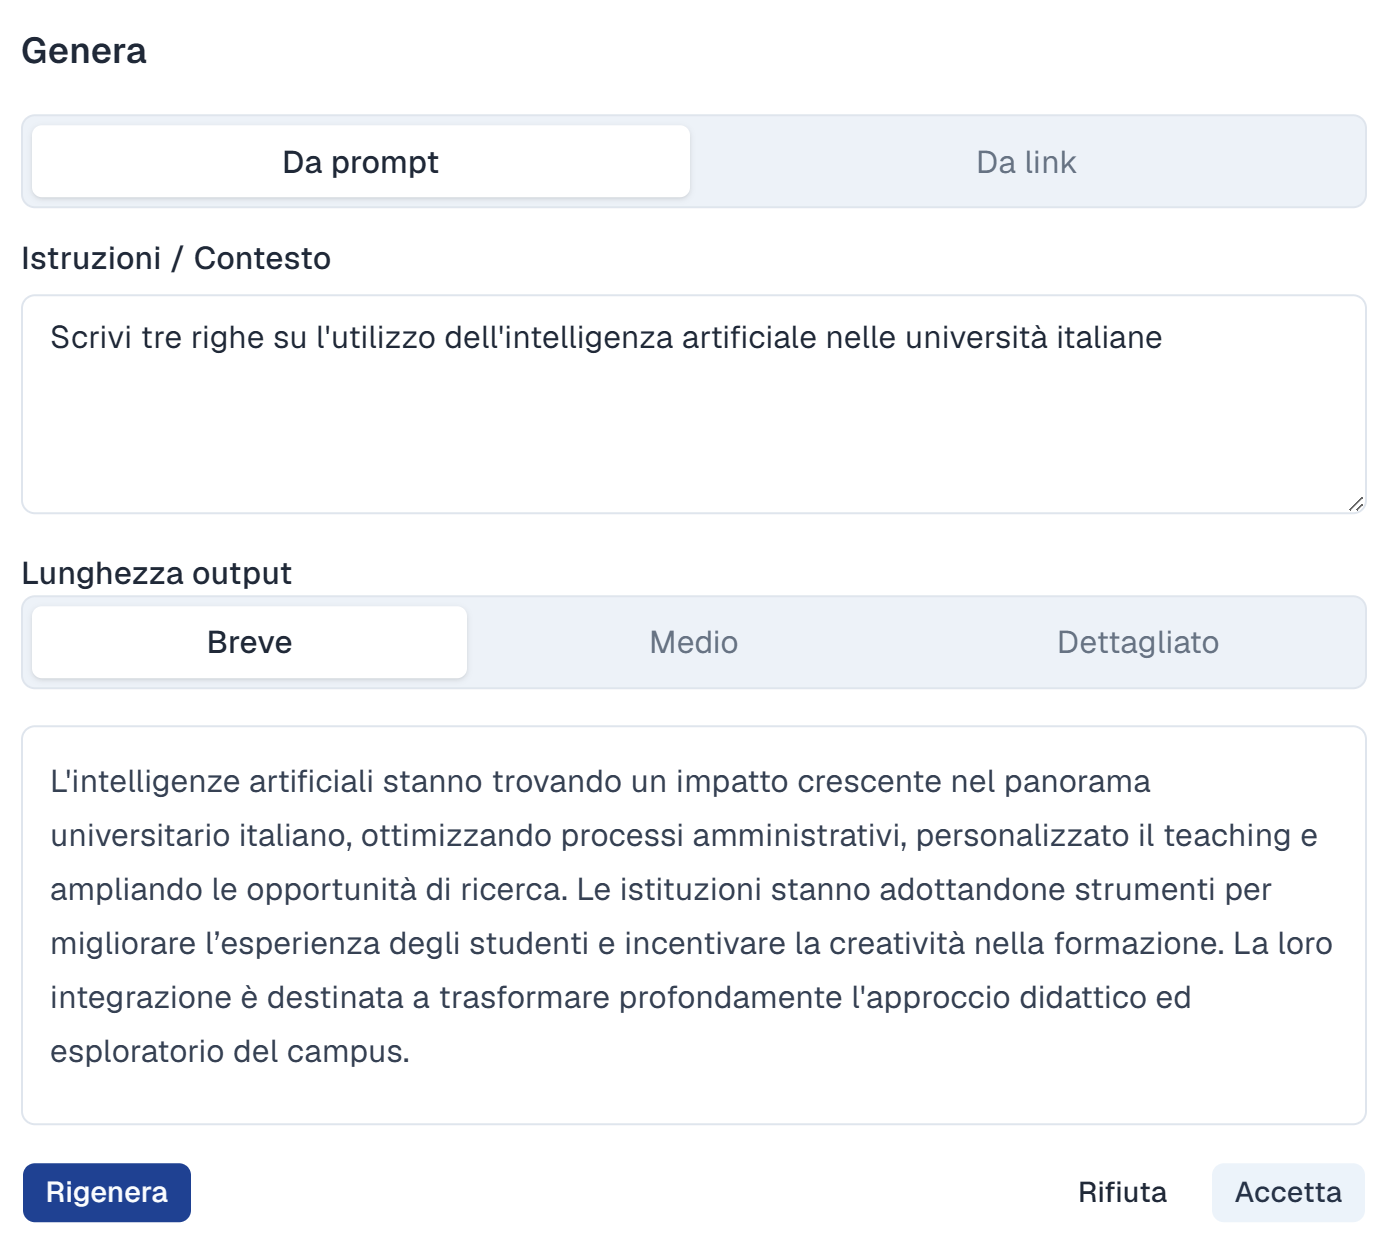
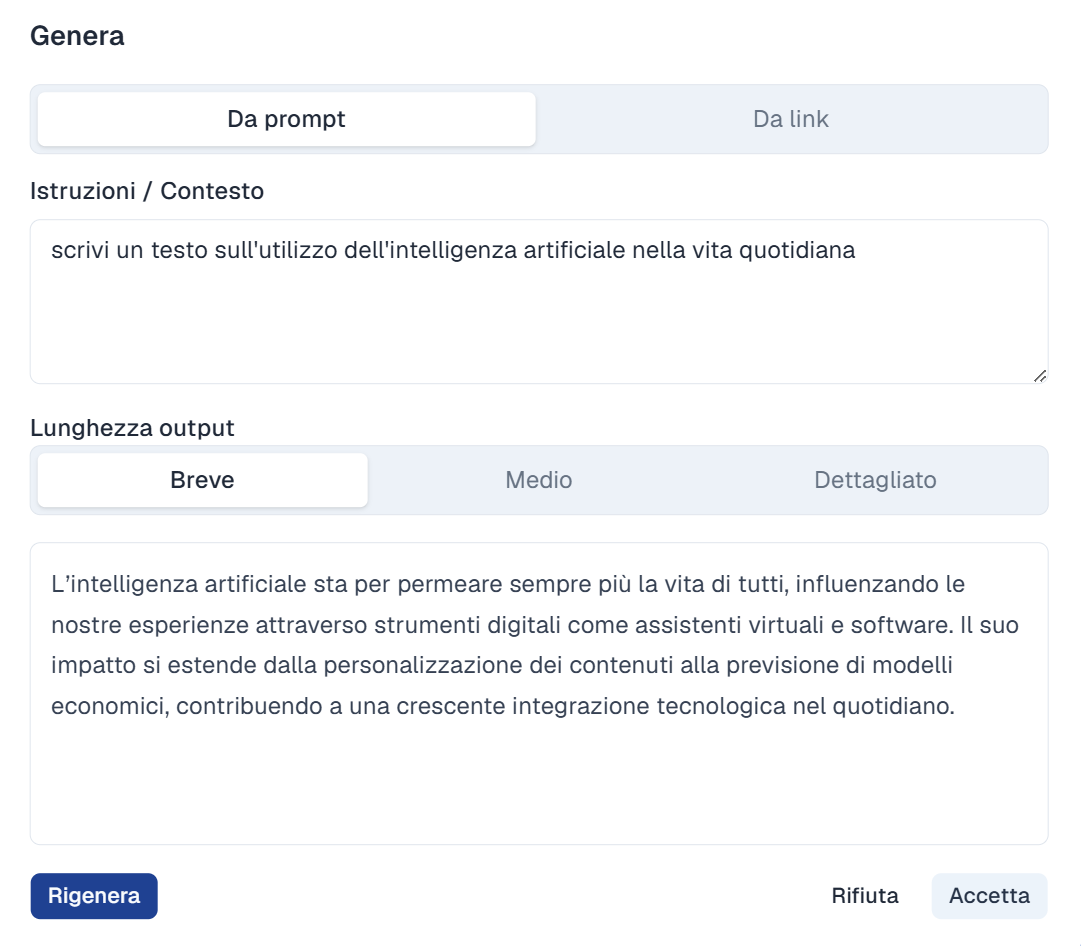
docs(manuale-utente): tenere la riga dei contatti nel frontespizio

diff --git a/PB/doc_esterna/manuale-utente/manuale-utente.tex b/PB/doc_esterna/manuale-utente/manuale-utente.tex
@@ -142,10 +142,20 @@
 % di questa cartella, quindi la definizione seguente è necessaria.
 \def\templatedir{../../../templates}
 
+% Il frontespizio è tarato sulle spaziature predefinite di LaTeX. Il \parskip
+% introdotto nel preambolo per il corpo del documento vale anche qui, e si
+% somma fra i blocchi del template: logo, intestazione, elenco dei redattori e
+% tabella. Lo spazio in più spingeva la riga dei contatti, che il \vfill del
+% template tiene in fondo alla pagina, sulla pagina successiva. Si azzera per
+% il solo frontespizio, dentro un gruppo, così il corpo resta invariato e il
+% template non va modificato.
+\begingroup
+\setlength{\parskip}{0pt}
 \begin{titlepage}
 \pagenumbering{gobble}
 \input{\templatedir/frontespizio.tex}
 \end{titlepage}
+\endgroup
 
 \newpage
 \pagenumbering{arabic}
@@ -1045,7 +1055,7 @@ Sono richiesti almeno 3 caratteri di istruzioni e non se ne possono superare 200
 \vspace{0.5em}
 
 \noindent
-\textbf{Esempio.} Istruzioni fornite: ``Scrivi tre righe su l'utilizzo dell'intelligenza artificiale nelle università italiane''. Parametro scelto: ``Lunghezza output'' impostato su ``Breve''. Risultato:
+\textbf{Esempio.} Istruzioni fornite: ``Scrivi un testo sull'utilizzo dell'intelligenza artificiale nella vita quotidiana''. Parametro scelto: ``Lunghezza output'' impostato su ``Breve''. Risultato:
 
 \begin{figure}[H]
     \centering
